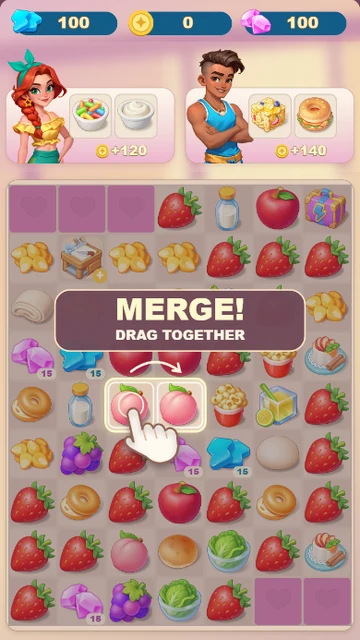
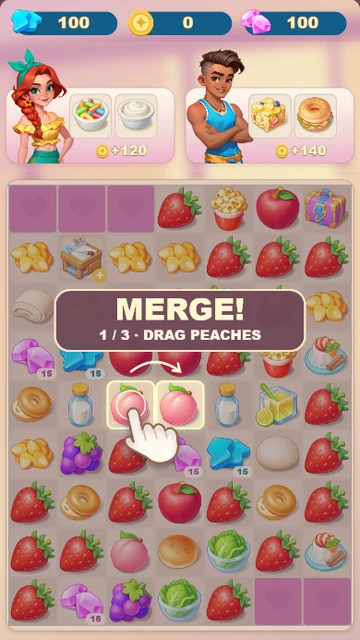
Guide first order through peaches milk and double-tap delivery

diff --git a/order-merge/index.html b/order-merge/index.html
@@ -4,11 +4,11 @@
 const chains=[['strawberry','apple','grapes','peach','candy'],['milk','cream'],['dough','bun','bagel','burger'],['kernels','popcorn','bucket','popcake'],['pastry','croissant'],['juice','lemonade'],['lettuce','salad'],['cakebit','cake']];
 const orders=[{id:0,person:'sera',name:'Sera',items:['candy','cream'],reward:120},{id:1,person:'kai',name:'Kai',items:['popcake','burger'],reward:140},{id:2,person:'zoey',name:'Zoey',items:['croissant','lemonade'],reward:120},{id:3,person:'sophia',name:'Sophia',items:['salad','cake'],reward:180}];
 const initial=[
- [null,null,null,'strawberry','milk','apple','gift'],
+ [null,null,null,'strawberry','bucket','apple','gift'],
  ['kernels','generator','kernels','kernels','strawberry','strawberry','strawberry'],
  ['pastry','kernels','pastry','bagel','juice','strawberry','kernels'],
  ['gem','energy','apple','apple','strawberry','bucket','cakebit'],
- ['bagel','milk','peach','peach','bucket','juice','strawberry'],
+ ['bagel','milk','peach','peach','milk','juice','strawberry'],
  ['kernels','grapes','strawberry','gem','energy','dough','strawberry'],
  ['strawberry','bagel','strawberry','apple','strawberry','bagel','strawberry'],
  ['strawberry','strawberry','peach','bun','lettuce','strawberry','cakebit'],
@@ -33,7 +33,7 @@ function autoAction(s){if(s.phase!=='play')return null;for(let slot=0;slot<2;slo
 return{chains,orders,initial,blocked,resources,resource,locate,upgrade,create,available,ready,orderIndices,move,serve,collect,generate,legalPairs,autoAction,need};});
 </script><script>(()=>{'use strict';
 const R=window.OrderRules,canvas=document.querySelector('#game'),ctx=canvas.getContext('2d'),autoButton=document.querySelector('#auto'),retryButton=document.querySelector('#retry'),W=720,H=1280,BX=17,BY=370,C=98,images={};
-let S=R.create(),phase='loading',ready=false,auto=false,hidden=false,clock=0,last=0,epoch=0,selected=null,pointer=null,motion=null,serving=null,pops=[],particles=[],coins=[],fly=null,nextAuto=0,toast=null,first=true,displayCoins=0,audio=null,trace=[],pageGone=false,adHidden=false,guide=null;
+let S=R.create(),phase='loading',ready=false,auto=false,hidden=false,clock=0,last=0,epoch=0,selected=null,pointer=null,motion=null,serving=null,pops=[],particles=[],coins=[],fly=null,nextAuto=0,toast=null,guideStart=0,displayCoins=0,audio=null,trace=[],pageGone=false,adHidden=false,guide=null;
 const ease=t=>1-Math.pow(1-t,3),clamp=(v,a=0,b=1)=>Math.max(a,Math.min(b,v)),mix=(a,b,t)=>a+(b-a)*t,point=i=>({x:BX+i%7*C+C/2,y:BY+Math.floor(i/7)*C+C/2}),cp=(x,y)=>{const r=canvas.getBoundingClientRect();return{x:r.left+x/W*r.width,y:r.top+y/H*r.height}};
 function rect(x,y,w,h,r,color,stroke){ctx.beginPath();ctx.roundRect(x,y,w,h,r);if(color){ctx.fillStyle=color;ctx.fill()}if(stroke){ctx.strokeStyle=stroke;ctx.stroke()}}
 function grad(x,y,xx,yy,stops){const g=ctx.createLinearGradient(x,y,xx,yy);stops.forEach(s=>g.addColorStop(...s));return g}
@@ -45,17 +45,17 @@ function coin(x,y,r=17,alpha=1){ctx.save();ctx.globalAlpha=alpha;ellipse(x,y+2,r
 function sound(kind){if(hidden||document.hidden)return;try{audio??=new(window.AudioContext||window.webkitAudioContext)();if(audio.state==='suspended')audio.resume().catch(()=>{});const tones=kind==='merge'?[523,784]:kind==='serve'?[659,784,1047]:kind==='bad'?[196]:kind==='coin'?[1200]:[440];const t=audio.currentTime;tones.forEach((freq,i)=>{const o=audio.createOscillator(),g=audio.createGain(),at=t+i*.065;o.type=kind==='bad'?'triangle':'sine';o.frequency.setValueAtTime(freq,at);o.frequency.exponentialRampToValueAtTime(freq*1.04,at+.13);g.gain.setValueAtTime(0,at);g.gain.linearRampToValueAtTime(kind==='coin'?.025:.05,at+.008);g.gain.exponentialRampToValueAtTime(.0001,at+.2);o.connect(g);g.connect(audio.destination);o.start(at);o.stop(at+.21)})}catch{}}
 function say(t){document.querySelector('#announce').textContent=t}
 function controls(){autoButton.textContent=auto?'PAUSE':'AUTO PLAY';autoButton.disabled=!ready||['success','failure','celebrate'].includes(phase)}
-function reset(){epoch++;lastTap=null;window.__JJEndcard?.hide();S=R.create();phase='play';auto=false;selected=pointer=motion=serving=fly=toast=null;pops=[];particles=[];coins=[];trace=[];first=true;displayCoins=0;nextAuto=clock+500;guide=R.autoAction(S);visibility(document.hidden||pageGone||adHidden);controls();say('Two customers, two items each. Merge identical items, then tap a ready order.');}
+function reset(){epoch++;lastTap=null;window.__JJEndcard?.hide();S=R.create();phase='play';auto=false;selected=pointer=motion=serving=fly=toast=null;pops=[];particles=[];coins=[];trace=[];displayCoins=0;nextAuto=clock+500;guide=null;refreshGuide();visibility(document.hidden||pageGone||adHidden);controls();say('Two customers, two items each. Merge identical items, then tap a ready order.');}
 function stopAuto(){auto=false;controls()}
 function notice(t){toast={text:t,until:clock+1450}}
 function sparkle(x,y,color='#fff6b7'){for(let i=0;i<20;i++){const a=i/20*Math.PI*2;particles.push({x,y,vx:Math.cos(a)*(50+Math.random()*90),vy:Math.sin(a)*(50+Math.random()*90),life:500+Math.random()*250,max:750,color,r:2+Math.random()*5})}}
 function fail(){phase='failure';auto=false;controls();notice('OUT OF ENERGY');window.__JJEndcard.show('failure');say('Out of energy. Tap Retry.');sound('bad')}
 function check(){if(S.phase==='success')return;if(S.energy<=0&&!S.slots.some(id=>id!=null&&R.ready(S,R.orders[id]))&&!S.board.some(id=>R.resource(id)?.currency==='energy'))fail()}
-function beginMove(from,to,isAuto=false,startPoint=null){if(phase!=='play'||motion||serving||fly||hidden)return false;const copy=structuredClone(S),result=R.move(copy,from,to);if(!result.valid){if(from!==to){const p=point(to>=0?to:from);pops.push({kind:'bad',x:p.x,y:p.y,start:clock});sound('bad')}return false}first=false;lastTap=null;selected=pointer=null;motion={...result,next:copy,start:clock,duration:result.kind==='merge'?(isAuto?460:340):300,a:startPoint||point(from),b:point(to),isAuto};phase='moving';sound('pick');return true}
-function landMove(){const m=motion;S=m.next;motion=null;phase='play';const p=point(m.to);if(m.kind==='merge'){pops.push({kind:'merge',id:m.item,x:p.x,y:p.y,start:clock});sparkle(p.x,p.y,'#eefff4');sound('merge')}trace.push({kind:m.kind,from:m.from,to:m.to,item:m.item,coins:S.coins,energy:S.energy});nextAuto=clock+(m.kind==='merge'?650:200);check()}
-function beginServe(slot){if(phase!=='play'||hidden)return false;lastTap=null;const oldSlots=S.slots.slice(),before=S.coins,result=R.serve(S,slot);if(!result){notice('MERGE BOTH ITEMS FIRST');const id=S.slots[slot];if(id!=null)for(const item of R.orders[id].items){const i=R.available(S,item);if(i>=0){const p=point(i);pops.push({kind:'hint',x:p.x,y:p.y,start:clock})}}sound('pick');return false}first=false;selected=pointer=null;serving={...result,oldSlots,before,start:clock,coined:false,coinCount:0};phase='serving';trace.push({kind:'serve',order:result.order.id,items:result.order.items.slice(),coins:S.coins});sound('serve');say(result.order.name+' served. '+result.order.reward+' coins.');return true}
-function beginCollect(index){if(phase!=='play')return false;const result=R.collect(S,index);if(!result)return false;const p=point(index);fly={kind:'collect',id:result.id,from:p,to:result.currency==='gems'?{x:596,y:47}:{x:125,y:47},start:clock,duration:600};phase='collecting';first=false;lastTap=null;selected=pointer=null;sound('pick');trace.push({kind:'collect',...result});say('+'+result.amount+(result.currency==='energy'?' energy':' gems'));return true}
-function beginGenerate(index){if(phase!=='play')return false;const result=R.generate(S,index);if(!result){notice(S.energy<=0?'OUT OF ENERGY':'Make room by merging items');sound('bad');return false}fly={kind:'generate',id:result.item,from:point(index),to:point(result.to),index:result.to,start:clock,duration:460};phase='generating';first=false;selected=null;sound('pick');trace.push({kind:'generate',...result});return true}
+function beginMove(from,to,isAuto=false,startPoint=null){if(phase!=='play'||motion||serving||fly||hidden)return false;const copy=structuredClone(S),result=R.move(copy,from,to);if(!result.valid){if(from!==to){const p=point(to>=0?to:from);pops.push({kind:'bad',x:p.x,y:p.y,start:clock});sound('bad')}return false}lastTap=null;selected=pointer=null;motion={...result,next:copy,start:clock,duration:result.kind==='merge'?(isAuto?460:340):300,a:startPoint||point(from),b:point(to),isAuto};phase='moving';sound('pick');return true}
+function landMove(){const m=motion;S=m.next;motion=null;phase='play';const p=point(m.to);if(m.kind==='merge'){pops.push({kind:'merge',id:m.item,x:p.x,y:p.y,start:clock});sparkle(p.x,p.y,'#eefff4');sound('merge')}refreshGuide();trace.push({kind:m.kind,from:m.from,to:m.to,item:m.item,coins:S.coins,energy:S.energy});nextAuto=clock+(m.kind==='merge'?650:200);check()}
+function beginServe(slot){if(phase!=='play'||hidden)return false;lastTap=null;const oldSlots=S.slots.slice(),before=S.coins,result=R.serve(S,slot);if(!result){notice('MERGE BOTH ITEMS FIRST');const id=S.slots[slot];if(id!=null)for(const item of R.orders[id].items){const i=R.available(S,item);if(i>=0){const p=point(i);pops.push({kind:'hint',x:p.x,y:p.y,start:clock})}}sound('pick');return false}selected=pointer=null;refreshGuide();serving={...result,oldSlots,before,start:clock,coined:false,coinCount:0};phase='serving';trace.push({kind:'serve',order:result.order.id,items:result.order.items.slice(),coins:S.coins});sound('serve');say(result.order.name+' served. '+result.order.reward+' coins.');return true}
+function beginCollect(index){if(phase!=='play')return false;const result=R.collect(S,index);if(!result)return false;refreshGuide();const p=point(index);fly={kind:'collect',id:result.id,from:p,to:result.currency==='gems'?{x:596,y:47}:{x:125,y:47},start:clock,duration:600};phase='collecting';lastTap=null;selected=pointer=null;sound('pick');trace.push({kind:'collect',...result});say('+'+result.amount+(result.currency==='energy'?' energy':' gems'));return true}
+function beginGenerate(index){if(phase!=='play')return false;const result=R.generate(S,index);if(!result){notice(S.energy<=0?'OUT OF ENERGY':'Make room by merging items');sound('bad');return false}refreshGuide();fly={kind:'generate',id:result.item,from:point(index),to:point(result.to),index:result.to,start:clock,duration:460};phase='generating';selected=null;sound('pick');trace.push({kind:'generate',...result});return true}
 function autoStep(){if(!auto||phase!=='play'||hidden||clock<nextAuto)return;const a=R.autoAction(S);if(!a){stopAuto();notice('Merge items to make room');check();return}if(a.kind==='serve')beginServe(a.slot);else if(a.kind==='merge')beginMove(a.from,a.to,true);else if(a.kind==='collect')beginCollect(a.index);else beginGenerate(a.index)}
 function pEvent(e){const r=canvas.getBoundingClientRect();return{x:(e.clientX-r.left)*W/r.width,y:(e.clientY-r.top)*H/r.height}}
 function cell(p){const c=Math.floor((p.x-BX)/C),r=Math.floor((p.y-BY)/C);return c>=0&&c<7&&r>=0&&r<9?r*7+c:-1}
@@ -81,17 +81,22 @@ function drawBoard(){ctx.save();ctx.shadowColor='#75473433';ctx.shadowBlur=10;ct
 
 function drawMoving(){if(pointer?.dragged){art(S.board[pointer.index],pointer.point.x,pointer.point.y-18,102,102);ellipse(pointer.point.x,pointer.point.y+36,32,6,'#72513e22')}if(motion){const m=motion,t=clamp((clock-m.start)/m.duration),z=t*t*(3-2*t),x=mix(m.a.x,m.b.x,z),y=mix(m.a.y,m.b.y,z)-Math.sin(t*Math.PI)*30;if(m.other)art(m.other,mix(m.b.x,point(m.from).x,z),mix(m.b.y,point(m.from).y,z),92,92);if(m.kind==='merge')art(m.old,m.b.x,m.b.y,92,92,1+.1*t,1-t*.35);art(m.old||m.item,x,y,92,92,1+.08*Math.sin(t*Math.PI))}if(fly){const t=clamp((clock-fly.start)/fly.duration),z=ease(t),s=fly.kind==='collect'?1-t*.55:1;art(fly.id,mix(fly.from.x,fly.to.x,z),mix(fly.from.y,fly.to.y,z)-Math.sin(t*Math.PI)*45,92,92,s)}}
 function drawServing(){if(!serving)return;const s=serving,elapsed=clock-s.start,x=s.slot?371:12;for(let j=0;j<2;j++){const t=clamp((elapsed-j*90)/600);if(t>=1)continue;const a=point(s.indices[j]),b={x:x+168+j*91,y:232},z=t*t*(3-2*t);art(s.order.items[j],mix(a.x,b.x,z),mix(a.y,b.y,z)-Math.sin(t*Math.PI)*110,92,92,1+.2*Math.sin(t*Math.PI))}for(let k=0;k<8;k++){const t=clamp((elapsed-620-k*55)/590);if(t<=0||t>=1)continue;const z=t*t*(3-2*t);coin(mix(x+235,282,z)+Math.sin(t*Math.PI)*(k%2?25:-25),mix(304,47,z)-Math.sin(t*Math.PI)*70,15)}const arrived=Array.from({length:8},(_,k)=>elapsed>=1210+k*55).filter(Boolean).length;displayCoins=s.before+Math.round(s.order.reward*arrived/8);if(arrived>s.coinCount){sound('coin');s.coinCount=arrived;}}
-function tutorialVisible(){return first&&guide?.kind==='merge'&&!auto&&phase==='play'&&!pointer&&!(toast&&toast.until>clock)}
-function drawHand(x,y,alpha=1){ctx.save();ctx.translate(x,y);ctx.rotate(-.22);ctx.globalAlpha=alpha;ctx.shadowColor='#38293866';ctx.shadowBlur=12;ctx.shadowOffsetY=7;ctx.beginPath();ctx.moveTo(-9,63);ctx.lineTo(-9,10);ctx.bezierCurveTo(-9,-7,14,-7,14,10);ctx.lineTo(14,43);ctx.bezierCurveTo(18,28,34,30,36,46);ctx.bezierCurveTo(42,34,57,39,58,55);ctx.bezierCurveTo(68,47,80,55,79,72);ctx.lineTo(76,91);ctx.bezierCurveTo(72,108,60,117,41,117);ctx.bezierCurveTo(26,117,16,109,9,98);ctx.lineTo(-18,75);ctx.bezierCurveTo(-32,62,-24,45,-12,53);ctx.closePath();ctx.fillStyle='#fffaf0';ctx.strokeStyle='#916454';ctx.lineWidth=4;ctx.lineJoin='round';ctx.fill();ctx.stroke();ctx.shadowColor='transparent';ctx.strokeStyle='#dfb7a1';ctx.lineWidth=3;ctx.beginPath();ctx.moveTo(15,45);ctx.lineTo(16,65);ctx.moveTo(37,47);ctx.lineTo(38,66);ctx.moveTo(58,57);ctx.lineTo(58,70);ctx.stroke();ctx.restore()}
-function drawTutorial(){if(!tutorialVisible())return;const a=point(guide.from),b=point(guide.to),left=Math.min(a.x,b.x)-51,top=a.y-53,width=Math.abs(b.x-a.x)+102;
- ctx.save();ctx.beginPath();ctx.rect(BX,BY,C*7,C*9);ctx.roundRect(left,top,width,106,19);ctx.fillStyle='#3e2d424f';ctx.fill('evenodd');ctx.shadowColor='#fff6a2';ctx.shadowBlur=15;ctx.lineWidth=4;rect(left,top,width,106,19,null,'#fff9d5');ctx.shadowColor='transparent';for(const p of [a,b]){ctx.lineWidth=3;rect(p.x-45,p.y-45,90,90,13,null,'#ffffffd9')}
- rect(110,581,500,122,30,'#704957f2','#fce8c3');strokeText('MERGE!',360,625,60,'#fff8cf','#704957',3);text('DRAG TOGETHER',360,674,27,'#fff4e4','center',800);
- ctx.lineWidth=5;ctx.lineCap='round';ctx.strokeStyle='#fff6d9';ctx.beginPath();ctx.moveTo(a.x,a.y-67);ctx.quadraticCurveTo((a.x+b.x)/2,a.y-105,b.x,a.y-67);ctx.stroke();ctx.beginPath();ctx.moveTo(b.x-15,a.y-69);ctx.lineTo(b.x,a.y-67);ctx.lineTo(b.x-4,a.y-83);ctx.stroke();
- const cycle=(clock%2400)/2400,t=clamp((cycle-.2)/.48),z=t*t*(3-2*t),alpha=cycle>.86?clamp((1-cycle)/.14):1;const x=mix(a.x,b.x,z),y=mix(a.y,b.y,z)-Math.sin(t*Math.PI)*14+10;if(cycle<.2){ctx.lineWidth=3;ctx.strokeStyle='#fff8da';ctx.beginPath();ctx.arc(a.x,a.y,19+cycle*65,0,Math.PI*2);ctx.stroke()}drawHand(x,y,alpha);ctx.restore()}
+function refreshGuide(){let next=null;if(!S.completed.includes(0)&&S.slots.includes(0)&&S.phase==='play'){
+ const candy=R.available(S,'candy'),cream=R.available(S,'cream');
+ if(candy<0||cream<0){const step=candy<0?1:2,target=candy<0?'candy':'cream',goal=R.locate(target);const pair=R.legalPairs(S).filter(m=>{const p=R.locate(m.item);return p&&p.chain===goal.chain&&p.rank<goal.rank}).sort((a,b)=>R.locate(b.item).rank-R.locate(a.item).rank)[0];if(pair)next={...pair,step}}
+ else next={kind:'double-tap',step:3,index:cream,item:'cream'};
+ }if(JSON.stringify(next)!==JSON.stringify(guide)){guide=next;guideStart=clock;if(next)say(next.step===3?'Double-tap the cream to serve both items.':'Step '+next.step+' of 3. Merge the highlighted '+(next.step===1?'peaches.':'milk bottles.'))}}
+function tutorialVisible(){return !!guide&&!auto&&!hidden&&phase==='play'&&!pointer&&!(toast&&toast.until>clock)}
+function drawHand(x,y,alpha=1,scale=1){ctx.save();ctx.translate(x,y);ctx.scale(scale,scale);ctx.rotate(-.22);ctx.globalAlpha=alpha;ctx.shadowColor='#38293866';ctx.shadowBlur=12;ctx.shadowOffsetY=7;ctx.beginPath();ctx.moveTo(-9,63);ctx.lineTo(-9,10);ctx.bezierCurveTo(-9,-7,14,-7,14,10);ctx.lineTo(14,43);ctx.bezierCurveTo(18,28,34,30,36,46);ctx.bezierCurveTo(42,34,57,39,58,55);ctx.bezierCurveTo(68,47,80,55,79,72);ctx.lineTo(76,91);ctx.bezierCurveTo(72,108,60,117,41,117);ctx.bezierCurveTo(26,117,16,109,9,98);ctx.lineTo(-18,75);ctx.bezierCurveTo(-32,62,-24,45,-12,53);ctx.closePath();ctx.fillStyle='#fffaf0';ctx.strokeStyle='#916454';ctx.lineWidth=4;ctx.lineJoin='round';ctx.fill();ctx.stroke();ctx.shadowColor='transparent';ctx.strokeStyle='#dfb7a1';ctx.lineWidth=3;ctx.beginPath();ctx.moveTo(15,45);ctx.lineTo(16,65);ctx.moveTo(37,47);ctx.lineTo(38,66);ctx.moveTo(58,57);ctx.lineTo(58,70);ctx.stroke();ctx.restore()}
+function drawTutorial(){if(!tutorialVisible())return;const isTap=guide.kind==='double-tap',a=point(isTap?guide.index:guide.from),b=isTap?a:point(guide.to),targets=isTap?[a]:[a,b],elapsed=clock-guideStart;
+ ctx.save();ctx.beginPath();ctx.rect(BX,BY,C*7,C*9);for(const p of targets)ctx.roundRect(p.x-47,p.y-47,94,94,13);ctx.fillStyle='#3e2d424f';ctx.fill('evenodd');ctx.shadowColor='#fff6a2';ctx.shadowBlur=15;for(const p of targets){ctx.lineWidth=4;rect(p.x-47,p.y-47,94,94,13,null,'#fff9d5')}ctx.shadowColor='transparent';
+ rect(110,581,500,122,30,'#704957f2','#fce8c3');strokeText(isTap?'DOUBLE TAP':'MERGE!',360,625,isTap?49:60,'#fff8cf','#704957',3);text(guide.step+' / 3 · '+(isTap?'SERVE ORDER':guide.step===1?'DRAG PEACHES':'DRAG MILK'),360,674,27,'#fff4e4','center',800);
+ if(isTap){const cycle=elapsed%2100;let press=0;for(const hit of [420,680]){const age=cycle-hit;if(age>=0&&age<170)press=Math.max(press,Math.sin(age/170*Math.PI));if(age>=0&&age<350){ctx.save();ctx.globalAlpha=1-age/350;ctx.lineWidth=4;ctx.strokeStyle='#fff9d5';ctx.beginPath();ctx.arc(a.x,a.y,17+age*.085,0,Math.PI*2);ctx.stroke();ctx.restore()}}drawHand(a.x,a.y+2+12*press,1,1-.1*press)}
+ else{ctx.lineWidth=5;ctx.lineCap='round';ctx.strokeStyle='#fff6d9';ctx.beginPath();ctx.moveTo(a.x,a.y-67);ctx.quadraticCurveTo((a.x+b.x)/2,a.y-105,b.x,b.y-67);ctx.stroke();ctx.beginPath();ctx.moveTo(b.x-15,b.y-69);ctx.lineTo(b.x,b.y-67);ctx.lineTo(b.x-4,b.y-83);ctx.stroke();const cycle=(elapsed%2400)/2400,t=clamp((cycle-.2)/.48),z=t*t*(3-2*t),alpha=cycle>.86?clamp((1-cycle)/.14):1;const x=mix(a.x,b.x,z),y=mix(a.y,b.y,z)-Math.sin(t*Math.PI)*14+10;if(cycle<.2){ctx.lineWidth=3;ctx.strokeStyle='#fff8da';ctx.beginPath();ctx.arc(a.x,a.y,19+cycle*65,0,Math.PI*2);ctx.stroke()}drawHand(x,y,alpha)}ctx.restore()}
 function drawEffects(){for(const p of particles){ctx.save();ctx.globalAlpha=clamp(p.life/250);ctx.translate(p.x,p.y);ctx.rotate(p.life/300);ctx.fillStyle=p.color;ctx.fillRect(-p.r,-p.r,p.r*2,p.r*2);ctx.restore()}for(const p of pops){const t=clamp((clock-p.start)/600);if(p.kind==='bad')strokeText('×',p.x,p.y-16*t,54,'#ef655f','#fff4e5',5);else if(p.kind==='hint'){ctx.lineWidth=4;ctx.strokeStyle='#fffbd4';ctx.beginPath();ctx.arc(p.x,p.y,43+7*t,0,Math.PI*2);ctx.stroke()}}if(toast&&toast.until>clock){rect(48,590,624,100,25,'#704957f2');text(toast.text,360,640,Math.min(34,566/(toast.text.length*.65)),'#fff5dd','center')}if(phase==='celebrate')strokeText('PERFECT!',360,708,68,'#eeffae','#4ca97d',10)}
 function frame(time){const dt=Math.min((time-last)||0,60);last=time;if(!hidden){clock+=dt;if(motion&&clock-motion.start>=motion.duration)landMove();if(fly&&clock-fly.start>=fly.duration){const p=fly.to;sparkle(p.x,p.y);fly=null;phase='play';nextAuto=clock+450;check()}if(serving&&clock-serving.start>=1640){displayCoins=S.coins;serving=null;if(S.phase==='success'){phase='celebrate';auto=false;controls();window.__JJEndcard.show('success')}else{phase='play';nextAuto=clock+420}}particles.forEach(p=>{p.x+=p.vx*dt/1000;p.y+=p.vy*dt/1000;p.vy+=80*dt/1000;p.life-=dt});particles=particles.filter(p=>p.life>0);pops=pops.filter(p=>clock-p.start<600);autoStep();drawBackground();drawWallets();drawOrder(0);drawOrder(1);drawBoard();drawMoving();drawServing();drawTutorial();drawEffects()}requestAnimationFrame(frame)}
 window.__JJ={getState:()=>({...structuredClone(S),phase,ready,auto,hidden,tutorial:tutorialVisible(),guide:guide?{...guide}:null,displayCoins,motion:!!motion,serving:!!serving,epoch,trace:trace.slice()}),getLegalMoves:()=>R.legalPairs(S),nextAction:()=>R.autoAction(S),move:(a,b)=>beginMove(a,b),serve:beginServe,collect:beginCollect,generate:beginGenerate,autoStart:()=>{auto=true;nextAuto=clock;controls()},autoStop:stopAuto,retry:reset,setHidden:visibility,cellPoint:i=>{const p=point(i);return cp(p.x,p.y)},orderPoint:slot=>cp((slot?371:12)+230,302)};
-if(new URLSearchParams(location.search).has('qa'))window.__OrderQA={setEnergy:n=>{S.energy=n;check()},snapshot:()=>structuredClone(S),restore:s=>{S=structuredClone(s);phase='play';motion=serving=fly=null;selected=pointer=null;window.__JJEndcard.hide();controls()}};
+if(new URLSearchParams(location.search).has('qa'))window.__OrderQA={setEnergy:n=>{S.energy=n;check()},snapshot:()=>structuredClone(S),restore:s=>{S=structuredClone(s);phase='play';motion=serving=fly=null;selected=pointer=null;window.__JJEndcard.hide();refreshGuide();controls()}};
 Promise.all(Object.entries(window.ORDER_ASSETS).map(([id,src])=>new Promise((resolve,reject)=>{const img=new Image();img.onload=()=>{images[id]=img;resolve()};img.onerror=reject;img.src=src}))).then(()=>{ready=true;document.querySelector('#loading').hidden=true;reset();requestAnimationFrame(frame)}).catch(()=>{document.querySelector('#loading').textContent='Please reload to prepare the orders.'});
 })();
 </script><script id="jj-endcard-runtime">(()=>{'use strict';

diff --git a/index.html b/index.html
@@ -326,8 +326,8 @@ main{max-width:1320px;margin:auto;padding:0 24px 96px}.toolbar{position:sticky;t
   <div class="card-body"><h2>Shelf Sort</h2><span class="category">Match</span></div>
  </a></article>
 <article class="card" data-type="Merge">
- <a class="playable" href="order-merge/index.html?v=order-central-merge-guide-20261016" target="_blank" rel="noopener" aria-label="Play Order Merge">
-  <div class="poster"><img data-src="order-merge/preview.webp?v=order-central-merge-guide-20261016" alt="Order Merge preview"  decoding="async"><span class="play-mark" aria-hidden="true">▶</span></div>
+ <a class="playable" href="order-merge/index.html?v=order-three-step-guide-20261016" target="_blank" rel="noopener" aria-label="Play Order Merge">
+  <div class="poster"><img data-src="order-merge/preview.webp?v=order-three-step-guide-20261016" alt="Order Merge preview"  decoding="async"><span class="play-mark" aria-hidden="true">▶</span></div>
   <div class="card-body"><h2>Order Merge</h2><span class="category">Merge</span></div>
  </a></article></section>
  <p class="empty" id="empty" hidden>No games found</p>

diff --git a/order-merge/README.md b/order-merge/README.md
@@ -5,7 +5,7 @@
 ## 玩法
 
 - 7 列 × 9 行棋盘，保留左上及右下粉色爱心区域；开局 58 件物品。
-- 开场两个桃子位于棋盘中央相邻格；画面中部放大显示 MERGE，并用手指循环演示拖动。操作时引导立即让开，完成首个有效操作后消失；Retry 恢复引导。
+- 三步首单引导：中央两桃子合成 → 左右两瓶牛奶合成 → 双击奶油提交整单；提示居中放大，各步都有对应的拖动或连续双点手指演示。按实际盘面推进，反向拖动或挪动材料后仍追踪当前物品，首单完成后结束。操作时引导让开，Auto Play 时隐藏，Retry 恢复。
 - 开局不放置四位顾客要求的任何成品；八件订单物品全部需要由低级材料合成。对应材料数量已配齐，标准流程无需额外补料。
 - 拖动两件相同、同等级道具，合成一个升级道具。原位置留空，其他格子保持原位，不下落补齐。
 - 可以把物品移到空格、交换不同普通物品；点击选中后再点击目标也能操作。

diff --git a/README.md b/README.md
@@ -571,7 +571,7 @@ Drop fruit into the stone-filled well, merge matching fruit and open the next ch
 
 ### 双订单合成
 
-根据 Juicy Journey 多订单提交视频重建。7×9 棋盘，同级合成升级；双订单各需两件成品，交付后金币飞向顶部钱包。四位本地角色依次接单。
+根据 Juicy Journey 多订单提交视频重建。7×9 棋盘，同级合成升级；双订单各需两件成品，交付后金币飞向顶部钱包。四位本地角色依次接单；首单提供桃子合成、牛奶合成、双击奶油交付的三步手指引导。
 
 - 操作：Drag identical items to upgrade. Double-tap a requested finished item, or tap a green order, to serve both items. Merge energy and gems; double-tap to claim 15 or 30.
 - 结尾：Complete four orders for 560 coins. All rewards settle before the full muted JJ end-card plays and holds its final frame.

diff --git a/体积与音乐检查.md b/体积与音乐检查.md
@@ -88,8 +88,10 @@
 
 
 
+
+
 <!-- order-merge-release -->
 ## 2026-10-16 · Order Merge
 
-更新中央桃子合成引导，放大 MERGE 提示并加入手指拖动演示；体力和钻石保留同级合成与双击领取（15→30），合集共 60 款。独立 HTML 769,094 字节，ZIP 569,531 字节，均低于 5 MB；本地游戏美术内嵌，无 BGM，操作音效后台暂停。
+更新三步首单引导：中央桃子合成、左右牛奶合成、双击奶油交付；各步配合手指演示；体力和钻石保留同级合成与双击领取（15→30），合集共 60 款。独立 HTML 770,418 字节，ZIP 570,127 字节，均低于 5 MB；本地游戏美术内嵌，无 BGM，操作音效后台暂停。
 <!-- /order-merge-release -->
